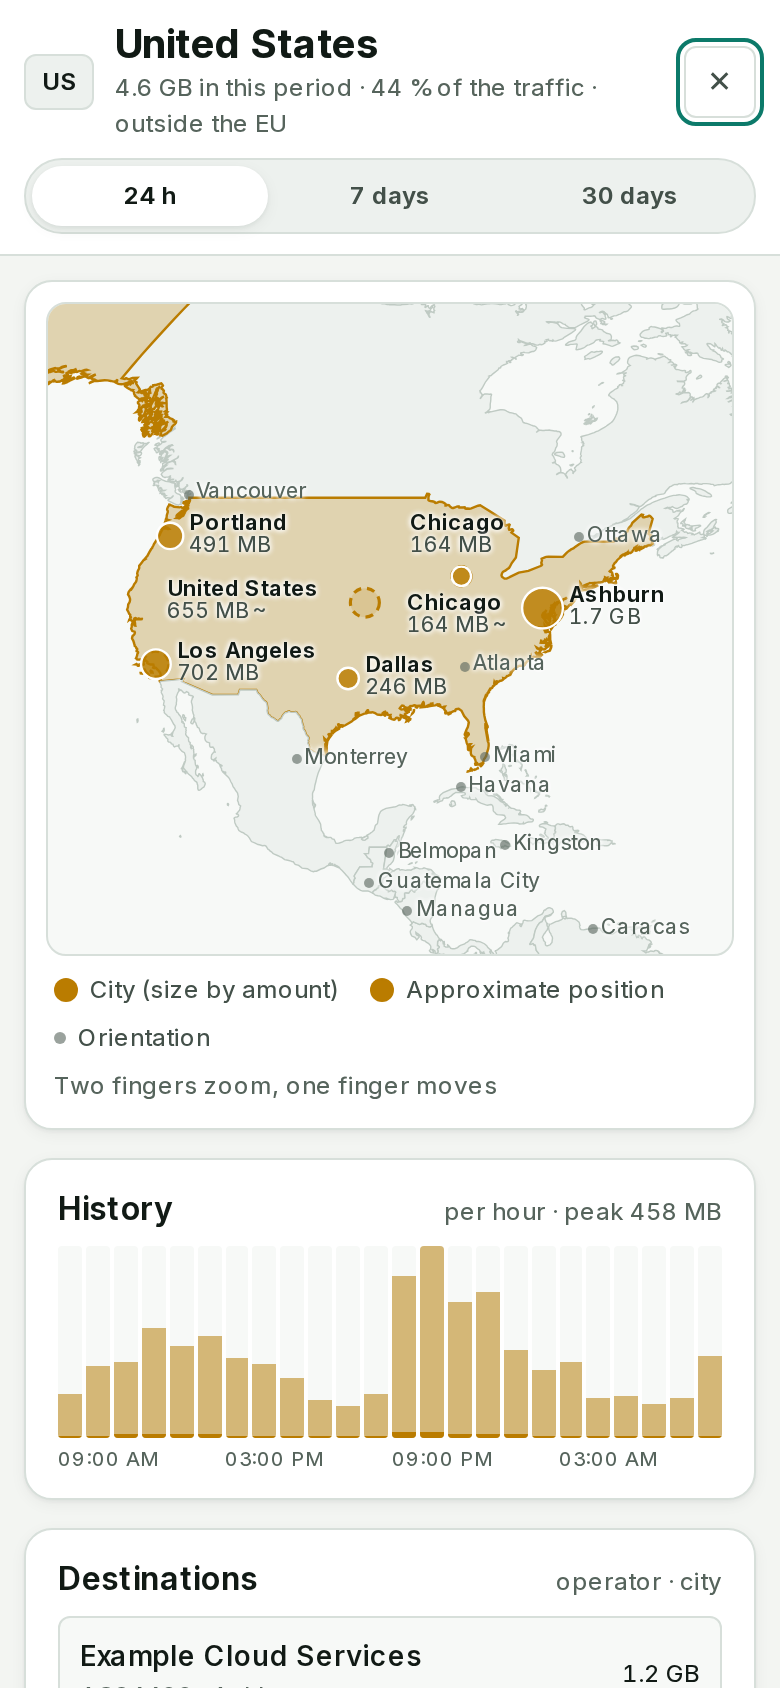
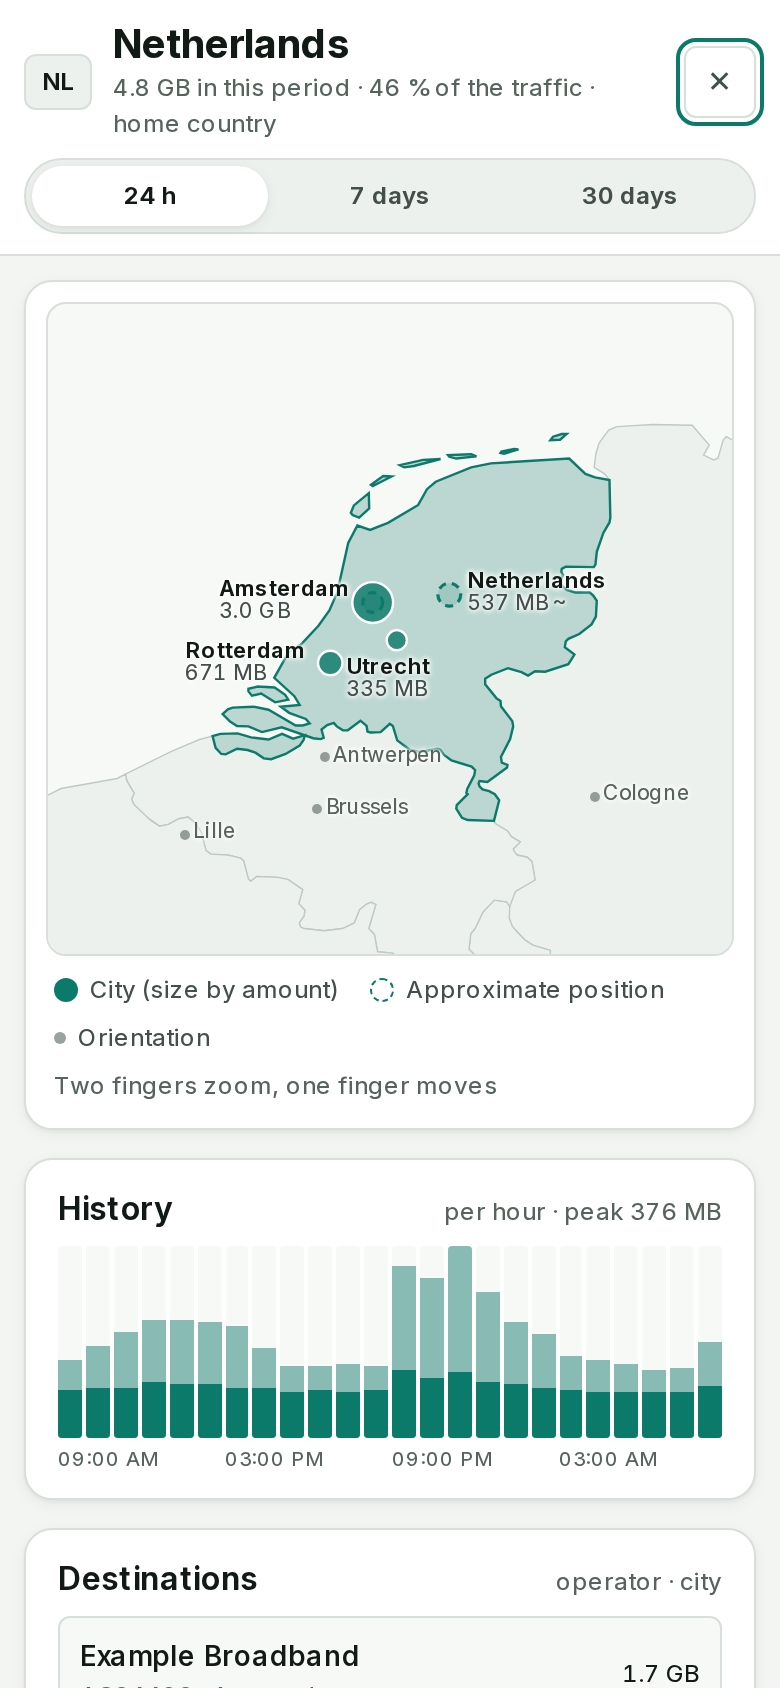
DW1 wip: places can be left out by a list outside the repository, phone picture without a place name that is also a product name, test uses a listed own network

diff --git a/lanloom/web/js/worldplaces.js b/lanloom/web/js/worldplaces.js
@@ -1180,7 +1180,6 @@
 [882.61,369.0,"Albury","AU",3],
 [844.13,89.22,"Aleksandrovsk Sakhalinskiy","RU",3],
 [387.08,2.93,"Alert","CA",3],
-[544.07,344.9,"Alexander Bay","ZA",3],
 [255.19,151.71,"Alexandria","US",3],
 [548.62,33.62,"Alta","NO",3],
 [738.07,103.3,"Altai","MN",3],

diff --git a/scripts/build_worldmap.py b/scripts/build_worldmap.py
@@ -4,6 +4,8 @@
 Usage:  python3 -I scripts/build_worldmap.py <ne_110m_admin_0_countries.geojson> <ne_50m_admin_0_countries.geojson> <ne_10m_populated_places_simple.geojson>
         python3 -I scripts/build_worldmap.py <ne_110m_admin_0_countries.geojson> <ne_50m_admin_0_countries.geojson>
         python3 -I scripts/build_worldmap.py --refine      (re-apply only the overseas/territory step to the current file)
+Optional, after the three inputs: --exclude-places FILE   leaves out every place whose name contains one of the words in FILE
+(one per line, any case); for names that must not appear in the published files. The output stays deterministic for the same inputs.
 Writes (paths resolved relative to the repository root, independent of the cwd):
   lanloom/web/js/worldmap.js        base map 1:110m (+ label points 1:50m), always loaded
   lanloom/web/js/worldmap_fine.js   fine map 1:50m for high zoom levels, shapes only    (only with three inputs)
@@ -314,8 +316,18 @@ def build_fine(features50):
     return fine
 
 
-def build_places(features):
+def _excluder(path):
+    """A predicate for the names listed in the file at ``path`` (whole words, any case); None means nothing is excluded."""
+    if not path:
+        return lambda name: False
+    words = [w.strip() for w in Path(path).read_text(encoding="utf-8").splitlines() if w.strip() and not w.lstrip().startswith("#")]
+    rx = re.compile(r"(?<!\w)(?:%s)(?!\w)" % "|".join(re.escape(w) for w in words), re.I) if words else None
+    return lambda name: bool(rx and rx.search(name))
+
+
+def build_places(features, exclude=None):
     """Orientation places: [x, y, name, ISO-A2, rank], rank 0 capital/world city ... 3 small (from scalerank)."""
+    skip = _excluder(exclude)
     out = []
     for f in features:
         p = f["properties"]
@@ -330,7 +342,7 @@ def build_places(features):
         cc = (p.get("iso_a2") or "").strip()
         if not cc or cc == "-99":
             cc = PLACE_CODE_FALLBACK.get(p.get("adm0_a3"), "")
-        if not name or not cc:
+        if not name or not cc or skip(name) or skip((p.get("nameascii") or "")):
             continue
         x, y = project(p["longitude"], p["latitude"])
         out.append([round(x, 2), round(y, 2), name, cc, rank])
@@ -338,7 +350,7 @@ def build_places(features):
     return out
 
 
-def main(path110, path50, path_places=None):
+def main(path110, path50, path_places=None, exclude=None):
     f110, f50 = _load(path110), _load(path50)
     # Shapes: one code, several features -> concatenate (main feature with its own ISO_A2 first;
     # ISO_A2_EH resolves France, Norway, Kosovo and similar -99 cases)
@@ -374,7 +386,7 @@ def main(path110, path50, path_places=None):
     write(countries, points)
     if path_places:
         write_fine(build_fine(f50))
-        write_places(build_places(_load(path_places)))
+        write_places(build_places(_load(path_places), exclude))
 
 
 def write(countries, points):
@@ -464,7 +476,15 @@ def refine_current():
 if __name__ == "__main__":
     if sys.argv[1:] == ["--refine"]:
         refine_current()
-    elif len(sys.argv) not in (3, 4):
-        sys.exit(__doc__)
     else:
-        main(*sys.argv[1:])
+        args = sys.argv[1:]
+        exclude = None
+        if "--exclude-places" in args:
+            i = args.index("--exclude-places")
+            if i != len(args) - 2 or len(args[:i]) != 3:
+                sys.exit(__doc__)
+            exclude = args[i + 1]
+            args = args[:i]
+        if len(args) not in (2, 3):
+            sys.exit(__doc__)
+        main(*args, exclude=exclude)

diff --git a/tests/test_datapaths_detail.py b/tests/test_datapaths_detail.py
@@ -72,7 +72,7 @@ def env(tmp_path, real_geo):
     g = geo.Geo(detail=data)
     g.db = real_geo.db                                  # the bundled country data, loaded once for the module
     store = Store(":memory:")
-    paths = DataPaths(store, g, lambda: {"home_country": "", "paths_own_networks": [], "paths_no_internet": []}, clock=lambda: NOW)
+    paths = DataPaths(store, g, lambda: {"home_country": "", "paths_own_networks": ["198.51.100.0/24"], "paths_no_internet": []}, clock=lambda: NOW)
     return paths, g, data, cc, store
 
 
@@ -177,7 +177,7 @@ def test_anycast_own_and_unassigned_never_get_a_city(env):
     paths, g, data, cc, store = env
     turn_on(data)
     paths.book("dev1", "8.8.8.8", 10, 10, NOW)                  # anycast
-    paths.book("dev1", "100.64.1.1", 10, 10, NOW)               # own (overlay VPN space)
+    paths.book("dev1", "198.51.100.7", 10, 10, NOW)             # own (a network listed in the settings)
     paths.book("dev1", "10.1.2.3", 10, 10, NOW)                 # reserved: own
     paths.flush(NOW)
     assert store.one("SELECT COUNT(*) AS n FROM paths_city_hour")["n"] == 0
